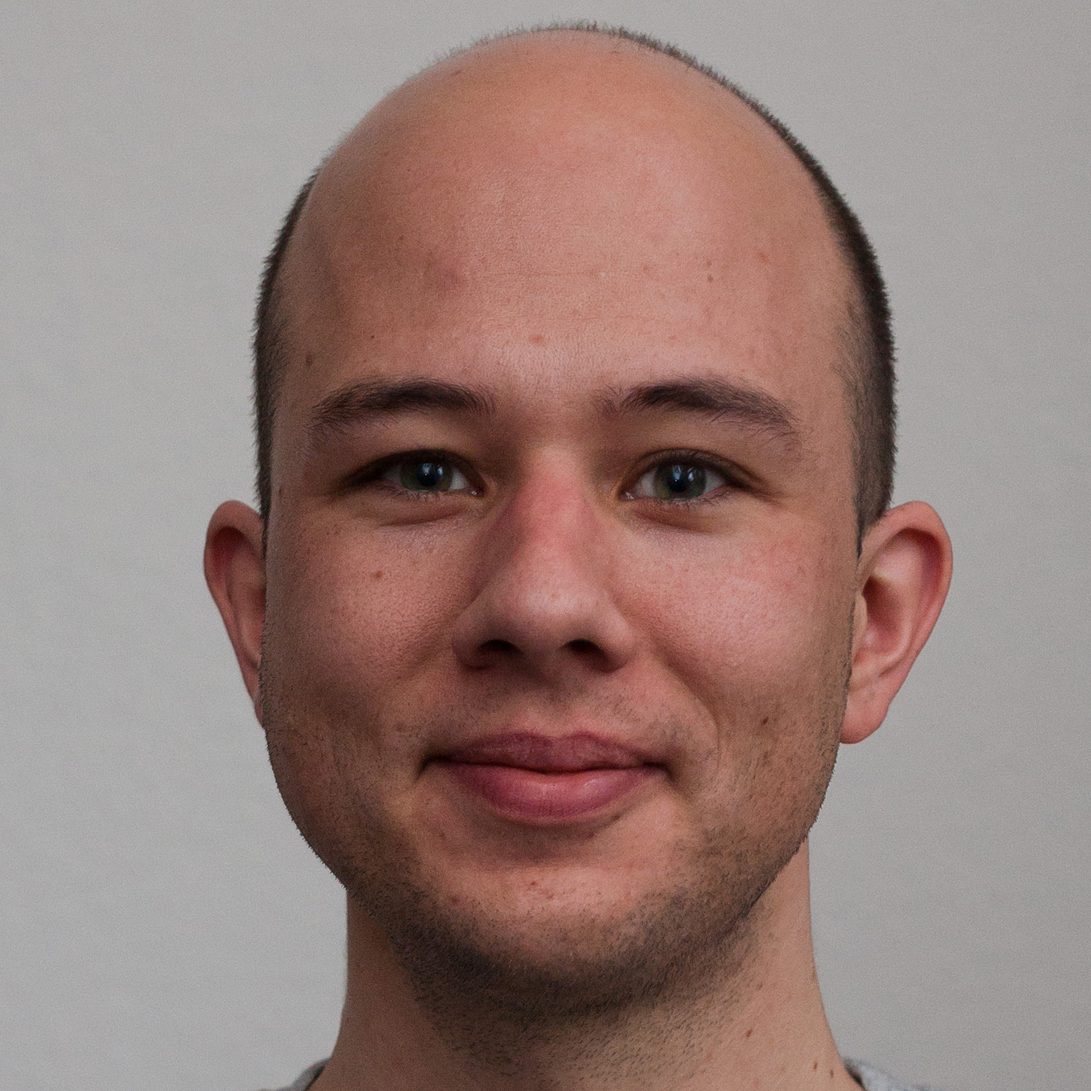
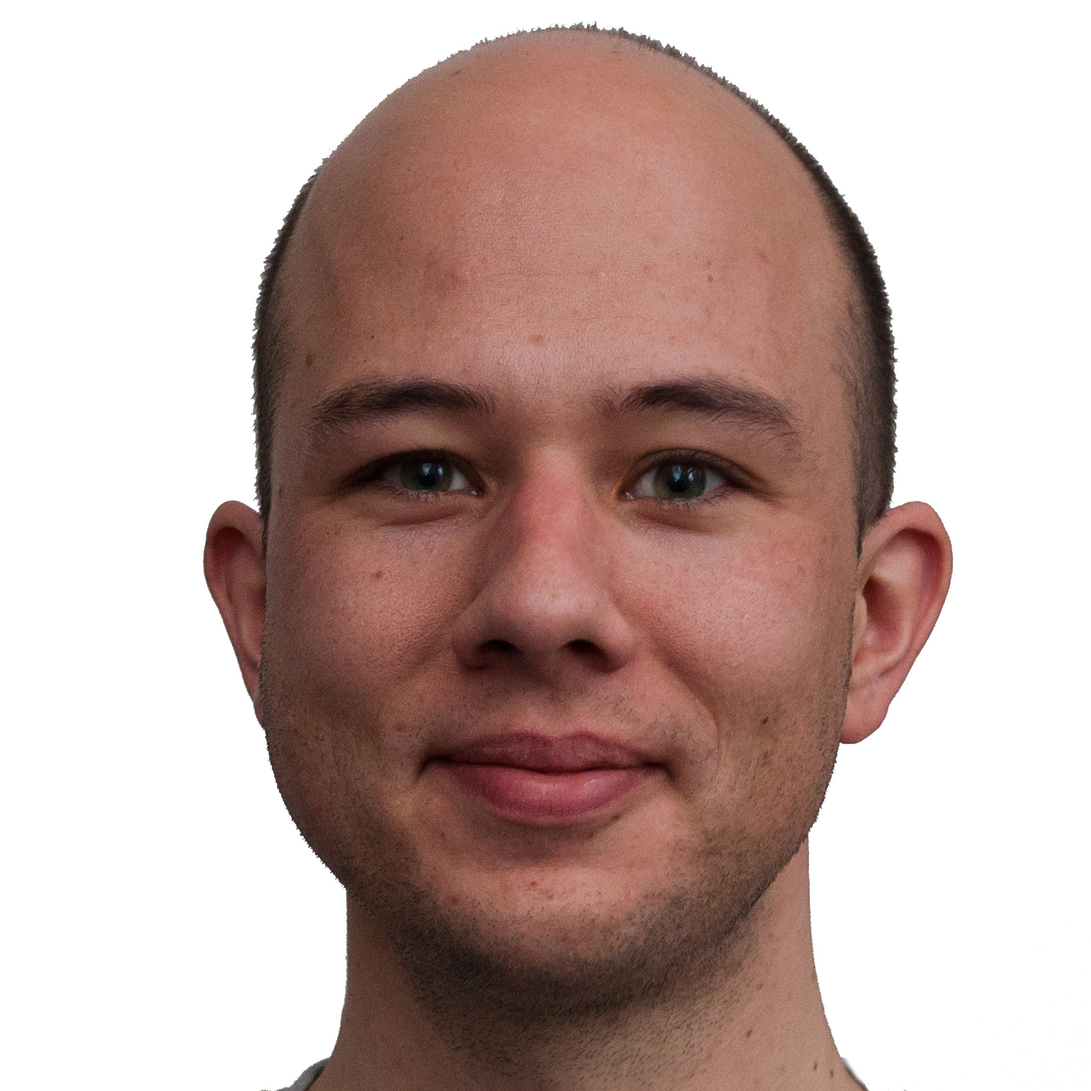
changed ch background color to pure white and put the pics in one row

diff --git a/_includes/team.html b/_includes/team.html
@@ -12,7 +12,7 @@
             </div>
             <div class="row">
                 {% for member in site.people %}
-                <div class="col-sm-4">
+                <div class="col-sm-3">
                     <div class="team-member">
                         <img src="img/team/{{ member.pic }}.jpg" class="img-responsive img-circle" alt="" style="width=150">
                         <h4>{{ member.name }}</h4>
